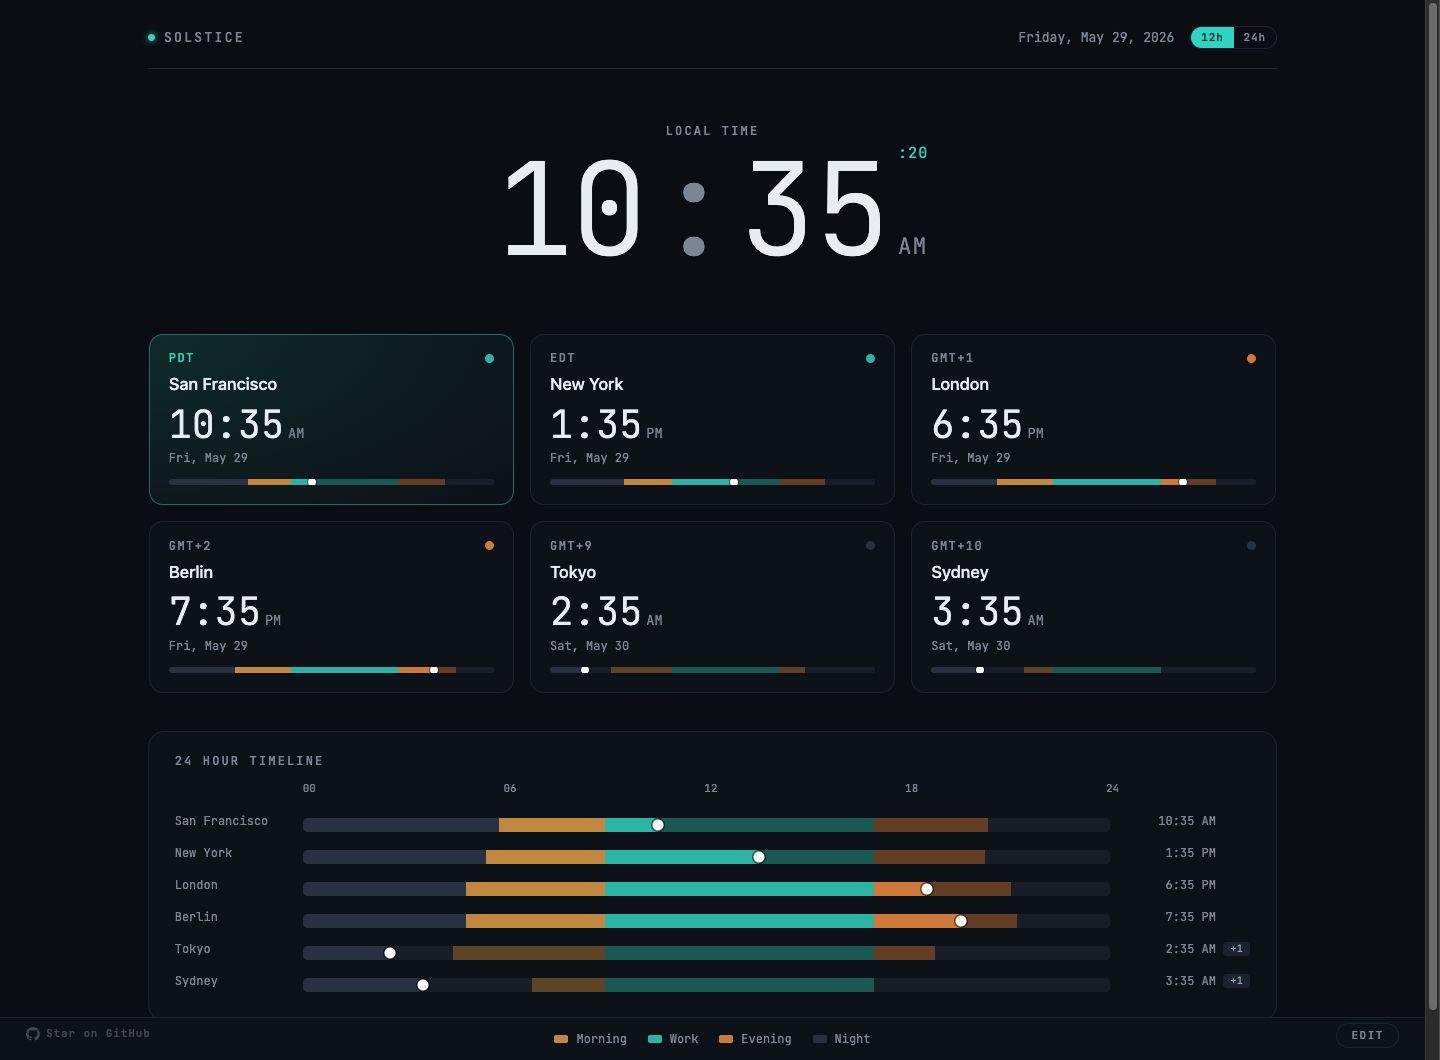
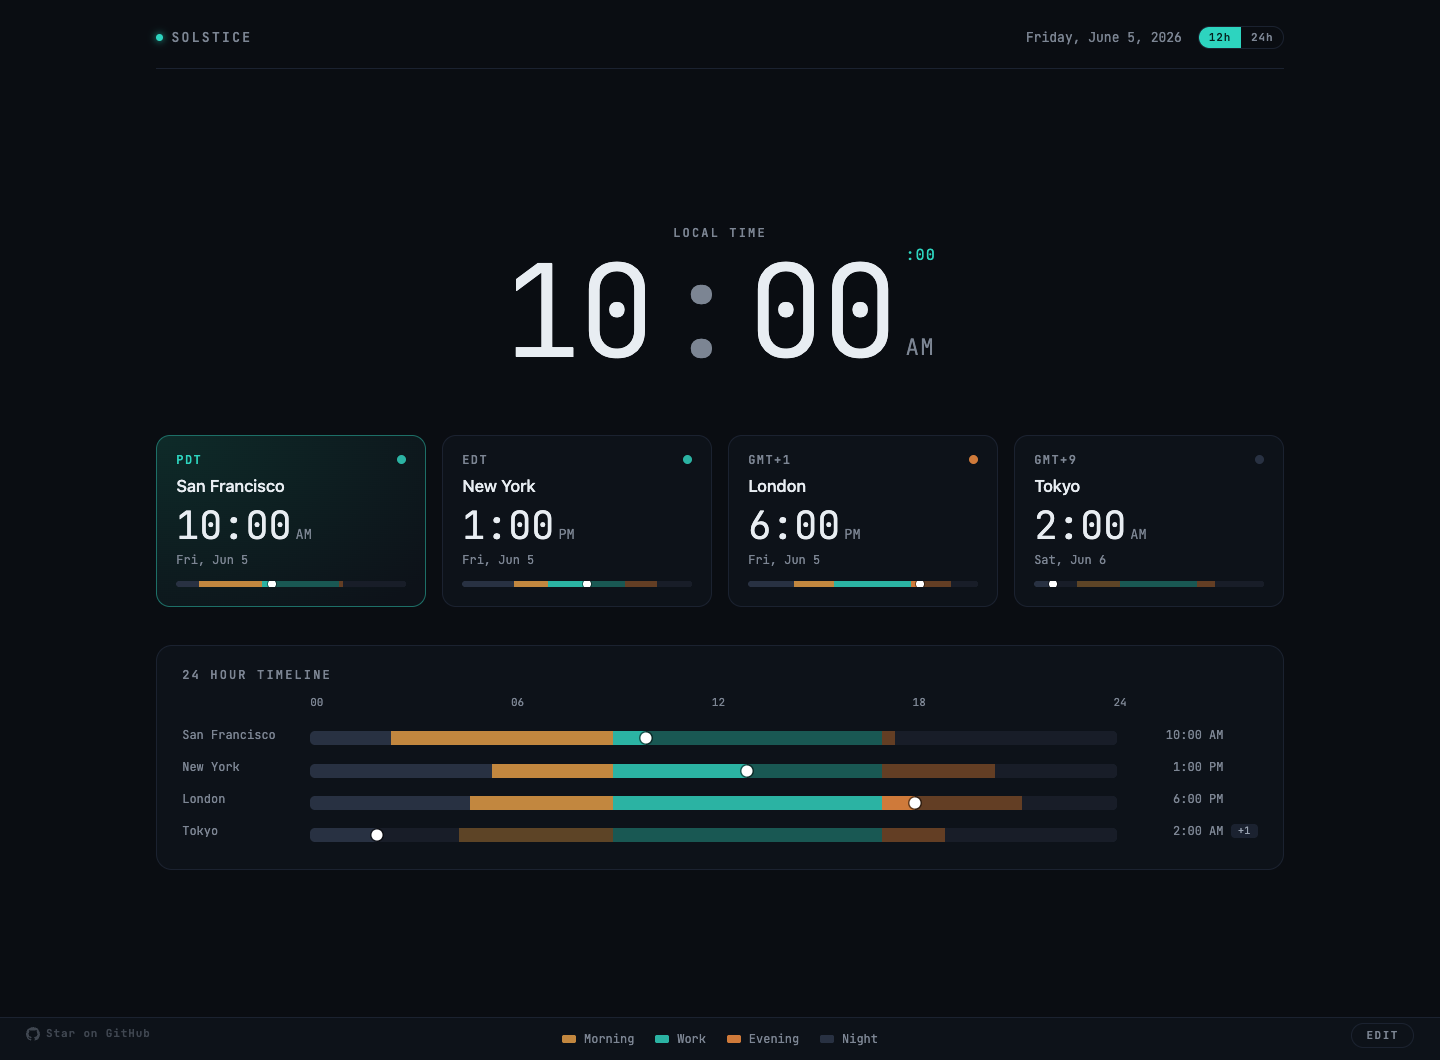
feat(scrub): hide seconds while scrubbing; README section + refreshed screenshots
- A pinned instant has no ticking seconds — hide the counter via
  .live.scrubbed .big .secs while scrubbed.
- README: add 'Scrub to any moment' section + a 'Plan across zones' bullet.
- Regenerate hero/edit/scrub screenshots: neutral 4-zone default set (one
  card row), daytime clock, no viewport scrollbar; scrub shot reflects the
  hidden seconds.

diff --git a/newtab.css b/newtab.css
@@ -215,5 +215,7 @@ body { margin:0; min-height:100vh; background:var(--bg); color:var(--txt);
 .scrub-pill:hover .sp-reset { color:var(--accent); }
 /* Pinned instant → "what hasn't happened yet" is meaningless. */
 .live.scrubbed .strip .future { display:none; }
+/* A frozen instant has no ticking seconds — hide the counter while scrubbed. */
+.live.scrubbed .big .secs { display:none; }
 /* Only the 24h timeline strips are draggable. */
 .timeline .strip { cursor:ew-resize; touch-action:none; }

diff --git a/README.md b/README.md
@@ -28,6 +28,8 @@ No accounts, no feeds, no clutter. Open a tab, get your bearings, move on.
   coordinates, so the colored bands reflect the actual day — not a guess.
 - **Yours in seconds.** Add or remove cities, drag to reorder, rename a zone
   to a person's name, flip the whole page between 12h and 24h.
+- **Plan across zones.** Drag any timeline marker and every clock jumps to
+  that moment — so you can find an hour that's civil for everyone.
 - **Quiet by design.** Muted palette, monospace numerals, nothing blinking
   for your attention.
 
@@ -66,6 +68,20 @@ automatically. Don't like the guess? Type your own home label and it sticks.
 
 A **12h / 24h** toggle in the top-right switches every time on the page at
 once. Everything you change persists locally between tabs.
+
+## Scrub to any moment
+
+<p align="center">
+  <img src="assets/screenshots/scrub.png" width="820" alt="Solstice scrubbed to noon — the big clock, every card, and every timeline frozen at the same instant, with a pause pill in the top-right showing the scrubbed time" />
+</p>
+
+Planning a call? Grab the marker on any timeline row and drag. The big local
+clock, every card, and every other timeline jump to the same instant — so you
+can read straight across: noon in San Francisco is 3pm in New York, 8pm in
+London, tomorrow morning in Tokyo. Times snap to the quarter-hour as you go.
+
+The page freezes while you explore, with a **⏸** pill up top showing the
+moment you're parked at. Click it — or press **Esc** — to drop back to now.
 
 ## Install
 

diff --git a/docs/plans/2026-06-05-timeline-scrub-design.md b/docs/plans/2026-06-05-timeline-scrub-design.md
@@ -89,7 +89,8 @@ zone on a DST-transition day.
 - `.live.scrubbed` class on the live root → CSS hides the `.future` dim
   overlay on every strip (meaningless once an arbitrary instant is pinned)
   and may accent markers.
-- Big clock shows the frozen time with static seconds.
+- Big clock shows the frozen time with the seconds counter hidden — a pinned
+  instant has no ticking seconds (`.live.scrubbed .big .secs { display:none }`).
 
 ## Scope decisions (flagged, can override)
 